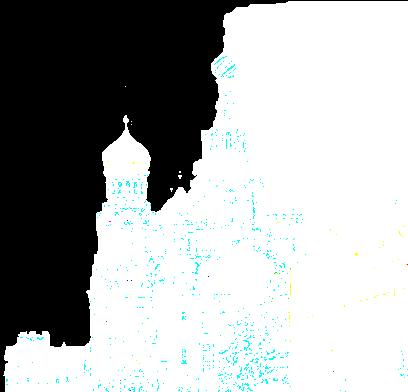
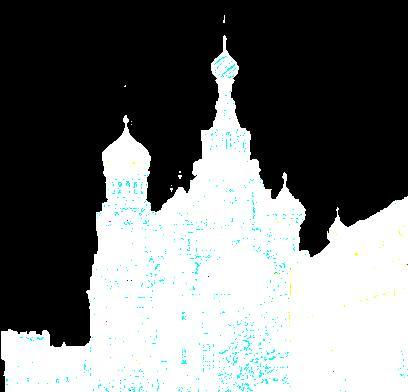
feat: complete integration

diff --git a/segmentation/FaceDetectionSegmentation.py b/segmentation/FaceDetectionSegmentation.py
@@ -22,7 +22,7 @@ def segement(image):
     rectangle = (1,1,img_width,img_height)
 
     # run the grabcut algorithm for 8 iterations
-    cv2.grabCut(image, mask, rectangle, backgroundModel, foregroundModel, 10, cv2.GC_INIT_WITH_RECT) 
+    cv2.grabCut(image, mask, rectangle, backgroundModel, foregroundModel, 10, cv2.GC_INIT_WITH_MASK)
    
 
     # generate the forground mask
